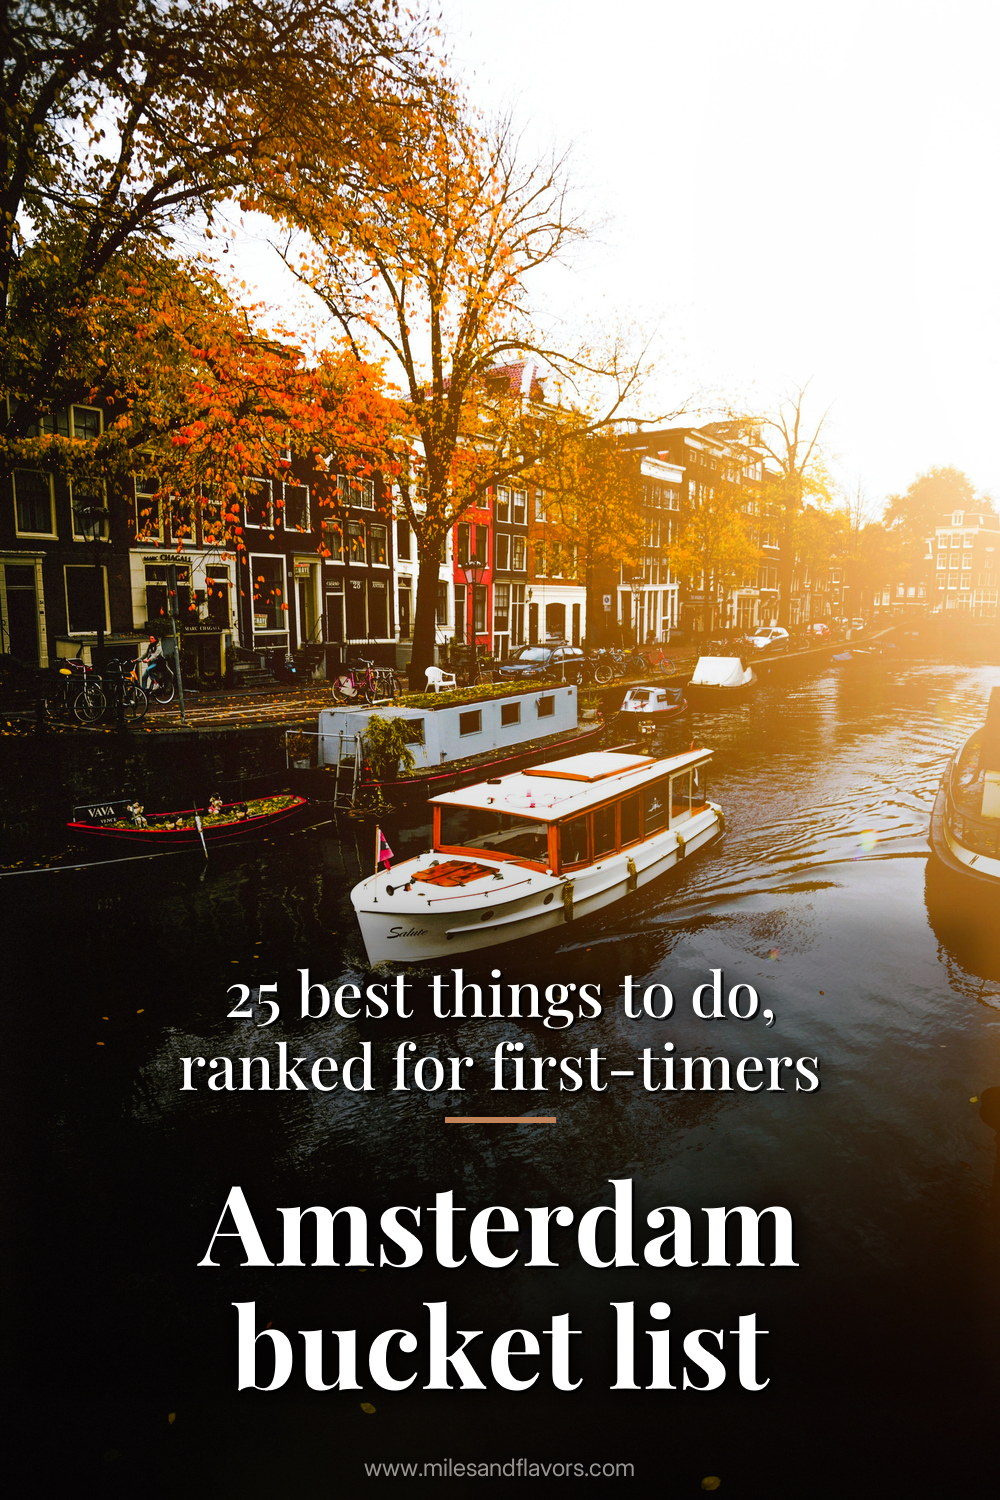
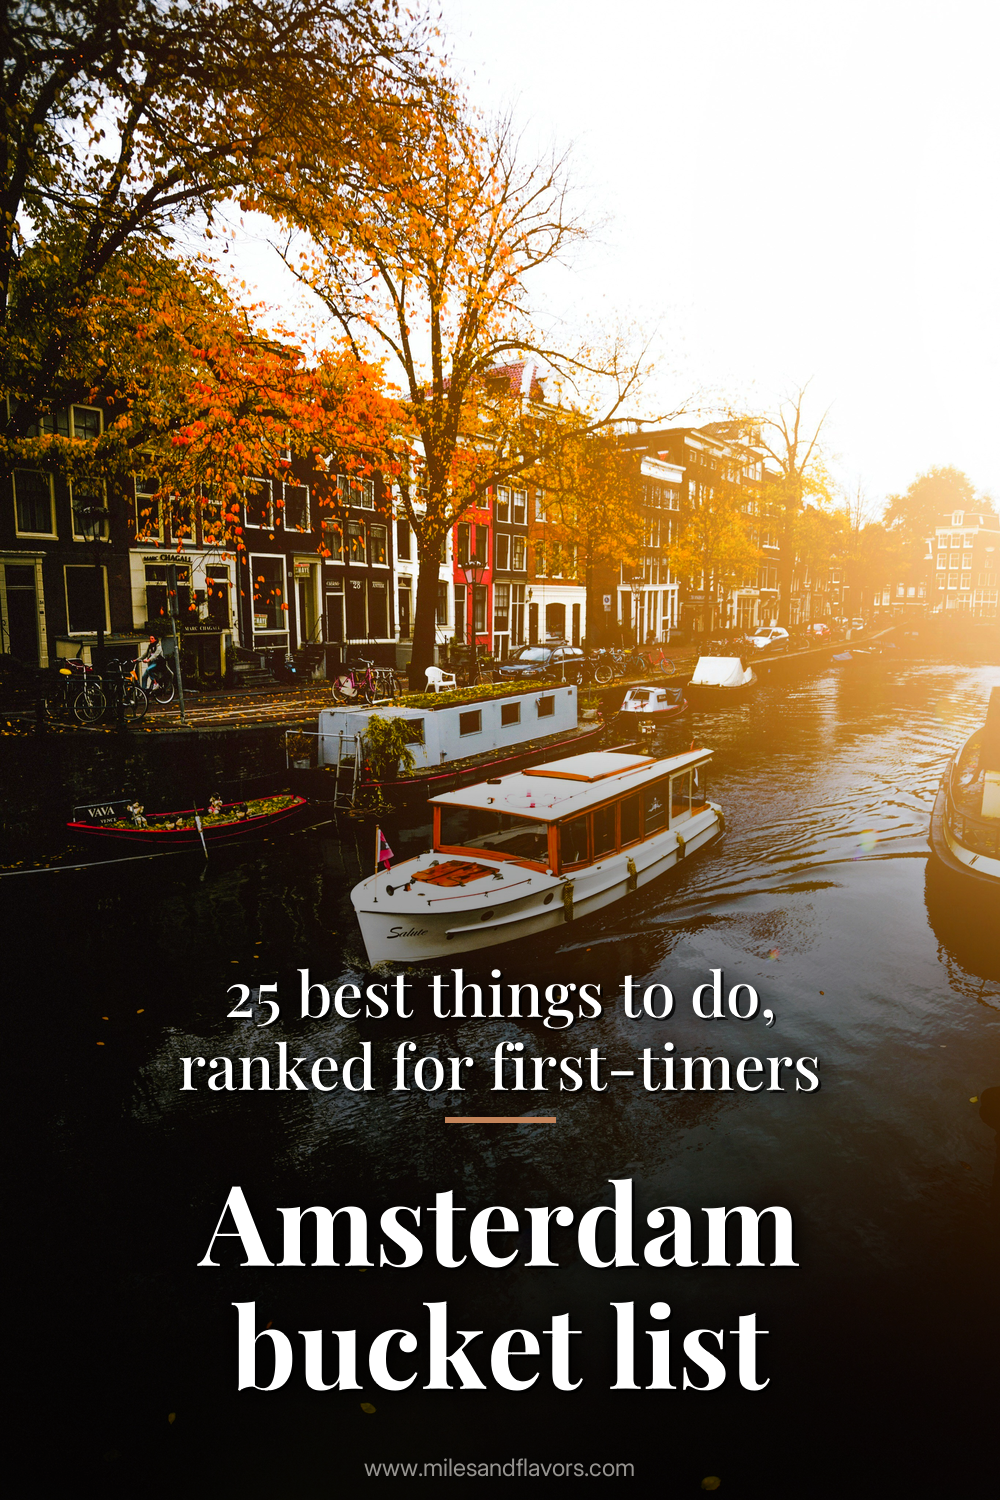
Replace blurred-box text overlay with true radial fade (no visible shadow edge)
The old 'legparna' overlay was a rounded_rectangle + 12px GaussianBlur, which
on uniform backgrounds (clear sky etc.) read as a visible dark box/shadow
behind the text instead of a soft blend. Replaced with a numpy-based radial
alpha falloff (smoothstep, no hard edge at any blur radius) sized around the
text block. Re-rendered all 7 of today's pins with the fix.

Changed region(s): [[0.341, 0.4907, 0.961, 0.6133], [0.992, 0.6133, 1.0, 0.7053], [0.186, 0.5213, 0.217, 0.552]]

diff --git a/render.py b/render.py
@@ -324,20 +324,22 @@ def render_hybrid_pin(bold, light, photos, zone_override=None, overlay_alpha=90,
     base = zone_gradient(base, zone)
 
     # 5. Halvány "légpárna" a szöveg mögé — alig látható, csak az olvashatóságért
-    #    Nem doboz, hanem sötét elliptikus enyhe folt a szöveg területén
-    pad_box = 30
-    box_top    = text_top - pad_box
-    box_bottom = int(H * 0.93)
-    box_left   = W // 2 - maxw // 2 - pad_box
-    box_right  = W // 2 + maxw // 2 + pad_box
-    overlay = Image.new("RGBA", (W, H), (0, 0, 0, 0))
-    ImageDraw.Draw(overlay).rounded_rectangle(
-        (box_left, box_top, box_right, box_bottom),
-        radius=18,
-        fill=(0, 0, 0, overlay_alpha)   # overlay erősség: Template dark/light/default
-    )
-    # Blur a széleken hogy ne legyen kemény vonal
-    overlay = overlay.filter(ImageFilter.GaussianBlur(12))
+    #    Valódi radiális (elliptikus) alfa-elhalványulás, NEM blur-özött doboz —
+    #    így nincs látható perem/árnyék-kontúr még egyenletes hátterű fotókon
+    #    (pl. tiszta ég) sem. (2026-08-06: box+blur helyett radial fade, user
+    #    jelezte hogy a régi verzió "shadow"-nak / doboznak látszott.)
+    cx = W // 2
+    cy = (text_top + int(H * 0.93)) // 2
+    rx = (maxw // 2) + 90
+    ry = ((int(H * 0.93) - text_top) // 2) + 90
+    yy, xx = np.mgrid[0:H, 0:W]
+    dist = np.sqrt(((xx - cx) / rx) ** 2 + ((yy - cy) / ry) ** 2)
+    # sima, kemény perem nélküli lecsengés: 1.0-ig teljes erő, utána cosine fade 1.0->1.6-ig, azon túl 0
+    fade = np.clip((1.6 - dist) / 0.6, 0, 1)
+    fade = fade * fade * (3 - 2 * fade)  # smoothstep
+    alpha = (fade * overlay_alpha).astype(np.uint8)
+    overlay = Image.new("RGBA", (W, H), (0, 0, 0, 0))  # fekete RGB, alfa alább
+    overlay.putalpha(Image.fromarray(alpha, mode="L"))
     base = Image.alpha_composite(base, overlay)
 
     # 6. Szöveg réteg
